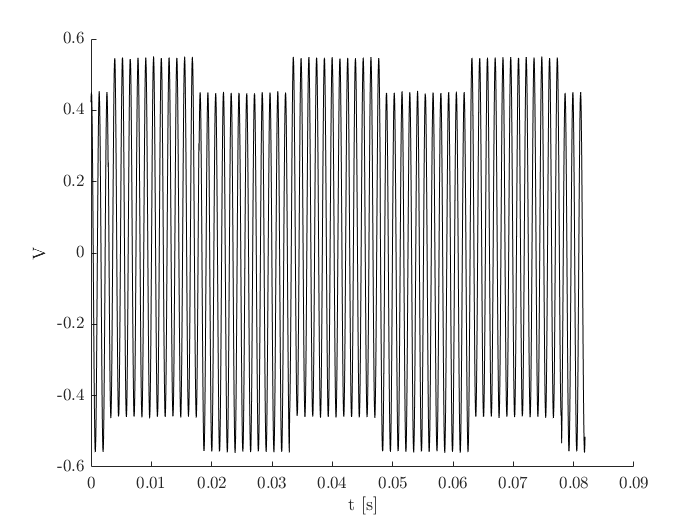
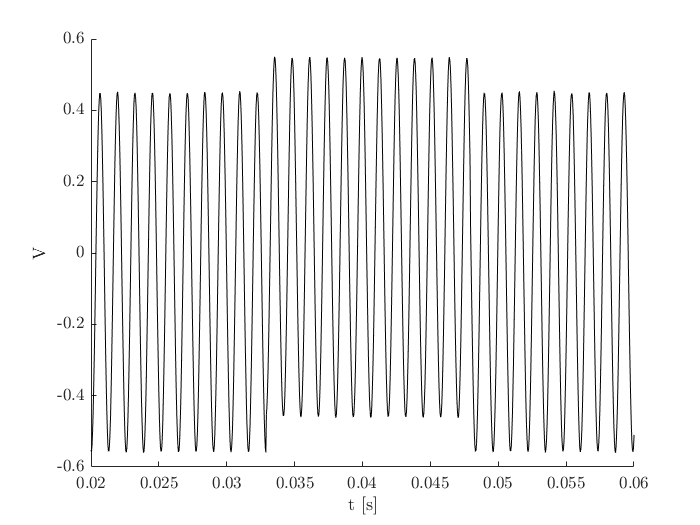
better images

diff --git a/LAB7.m b/LAB7.m
@@ -57,6 +57,7 @@ hold on;
 set(gca,'defaulttextinterpreter','latex','TickLabelInterpreter','latex');
 plot(part2Initial(:,1),part2Initial(:,2),'k')
 xlabel('t [s]');
+xlim([0 .02])
 ylabel('V');
 
 % ---------------- Sine Wave time domain final ------------
@@ -81,6 +82,7 @@ figure()
 hold on; 
 set(gca,'defaulttextinterpreter','latex','TickLabelInterpreter','latex');
 plot(part3time(:,1),part3time(:,2),'k')
+xlim([.02 .06])
 xlabel('t [s]');
 ylabel('V');
 
